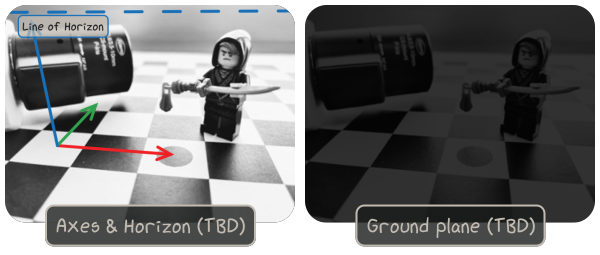
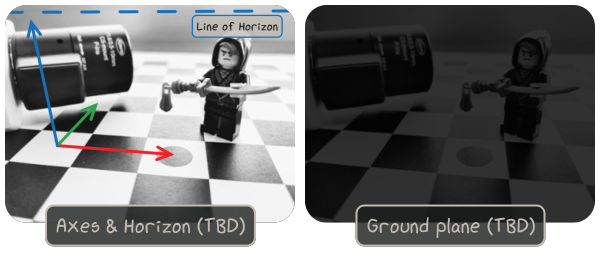
extend documentation with painter init

Changed region(s): [[0.03, 0.0275, 0.48, 0.1647]]

diff --git a/examples/rtd-examples-python/rtd_demo_images/pinhole.py b/examples/rtd-examples-python/rtd_demo_images/pinhole.py
@@ -37,15 +37,16 @@ def _overlay_horizon(painter, K, R, t):
         width=7, color=viren2d.axis_color('z'), dash_pattern=[40, 50],
         cap='round')
     horizon = painter.draw_horizon_line(K=K, R=R, t=t, line_style=line_style)
-    # Add a label
-    text_style = viren2d.TextStyle(family='xkcd', size=29, color='#1a1c1d')
-    line_style.width = 3
-    line_style.dash_pattern = []
-    painter.draw_text_box(
-        ['Line of Horizon'],
-        position=horizon.point_at_offset(0.8) + (0, 10),
-        anchor='top', text_style=text_style, padding=(10, 6),
-        line_style=line_style, fill_color='#c0bab1c0')
+    if horizon.is_valid():
+        # Add a label
+        text_style = viren2d.TextStyle(family='xkcd', size=29, color='#1a1c1d')
+        line_style.width = 3
+        line_style.dash_pattern = []
+        painter.draw_text_box(
+            ['Line of Horizon'],
+            position=horizon.point_at_offset(0.8) + (0, 10),
+            anchor='top', text_style=text_style, padding=(10, 6),
+            line_style=line_style, fill_color='#c0bab1c0')
 
 
 def demo_pinhole():

diff --git a/docs/source/tutorial/draw-tracking-by-detection.rst b/docs/source/tutorial/draw-tracking-by-detection.rst
@@ -17,7 +17,7 @@ This visualization has been created with the following Python code:
 
 .. literalinclude:: ../../../examples/rtd-examples-python/rtd_demo_images/tracking_by_detection.py
    :language: python
-   :lines: 11-72
-   :emphasize-lines: 7, 18-20, 28, 39-42
+   :lines: 8-72
+   :emphasize-lines: 10, 21-23, 31, 42-45
    :linenos:
    :dedent: 4
